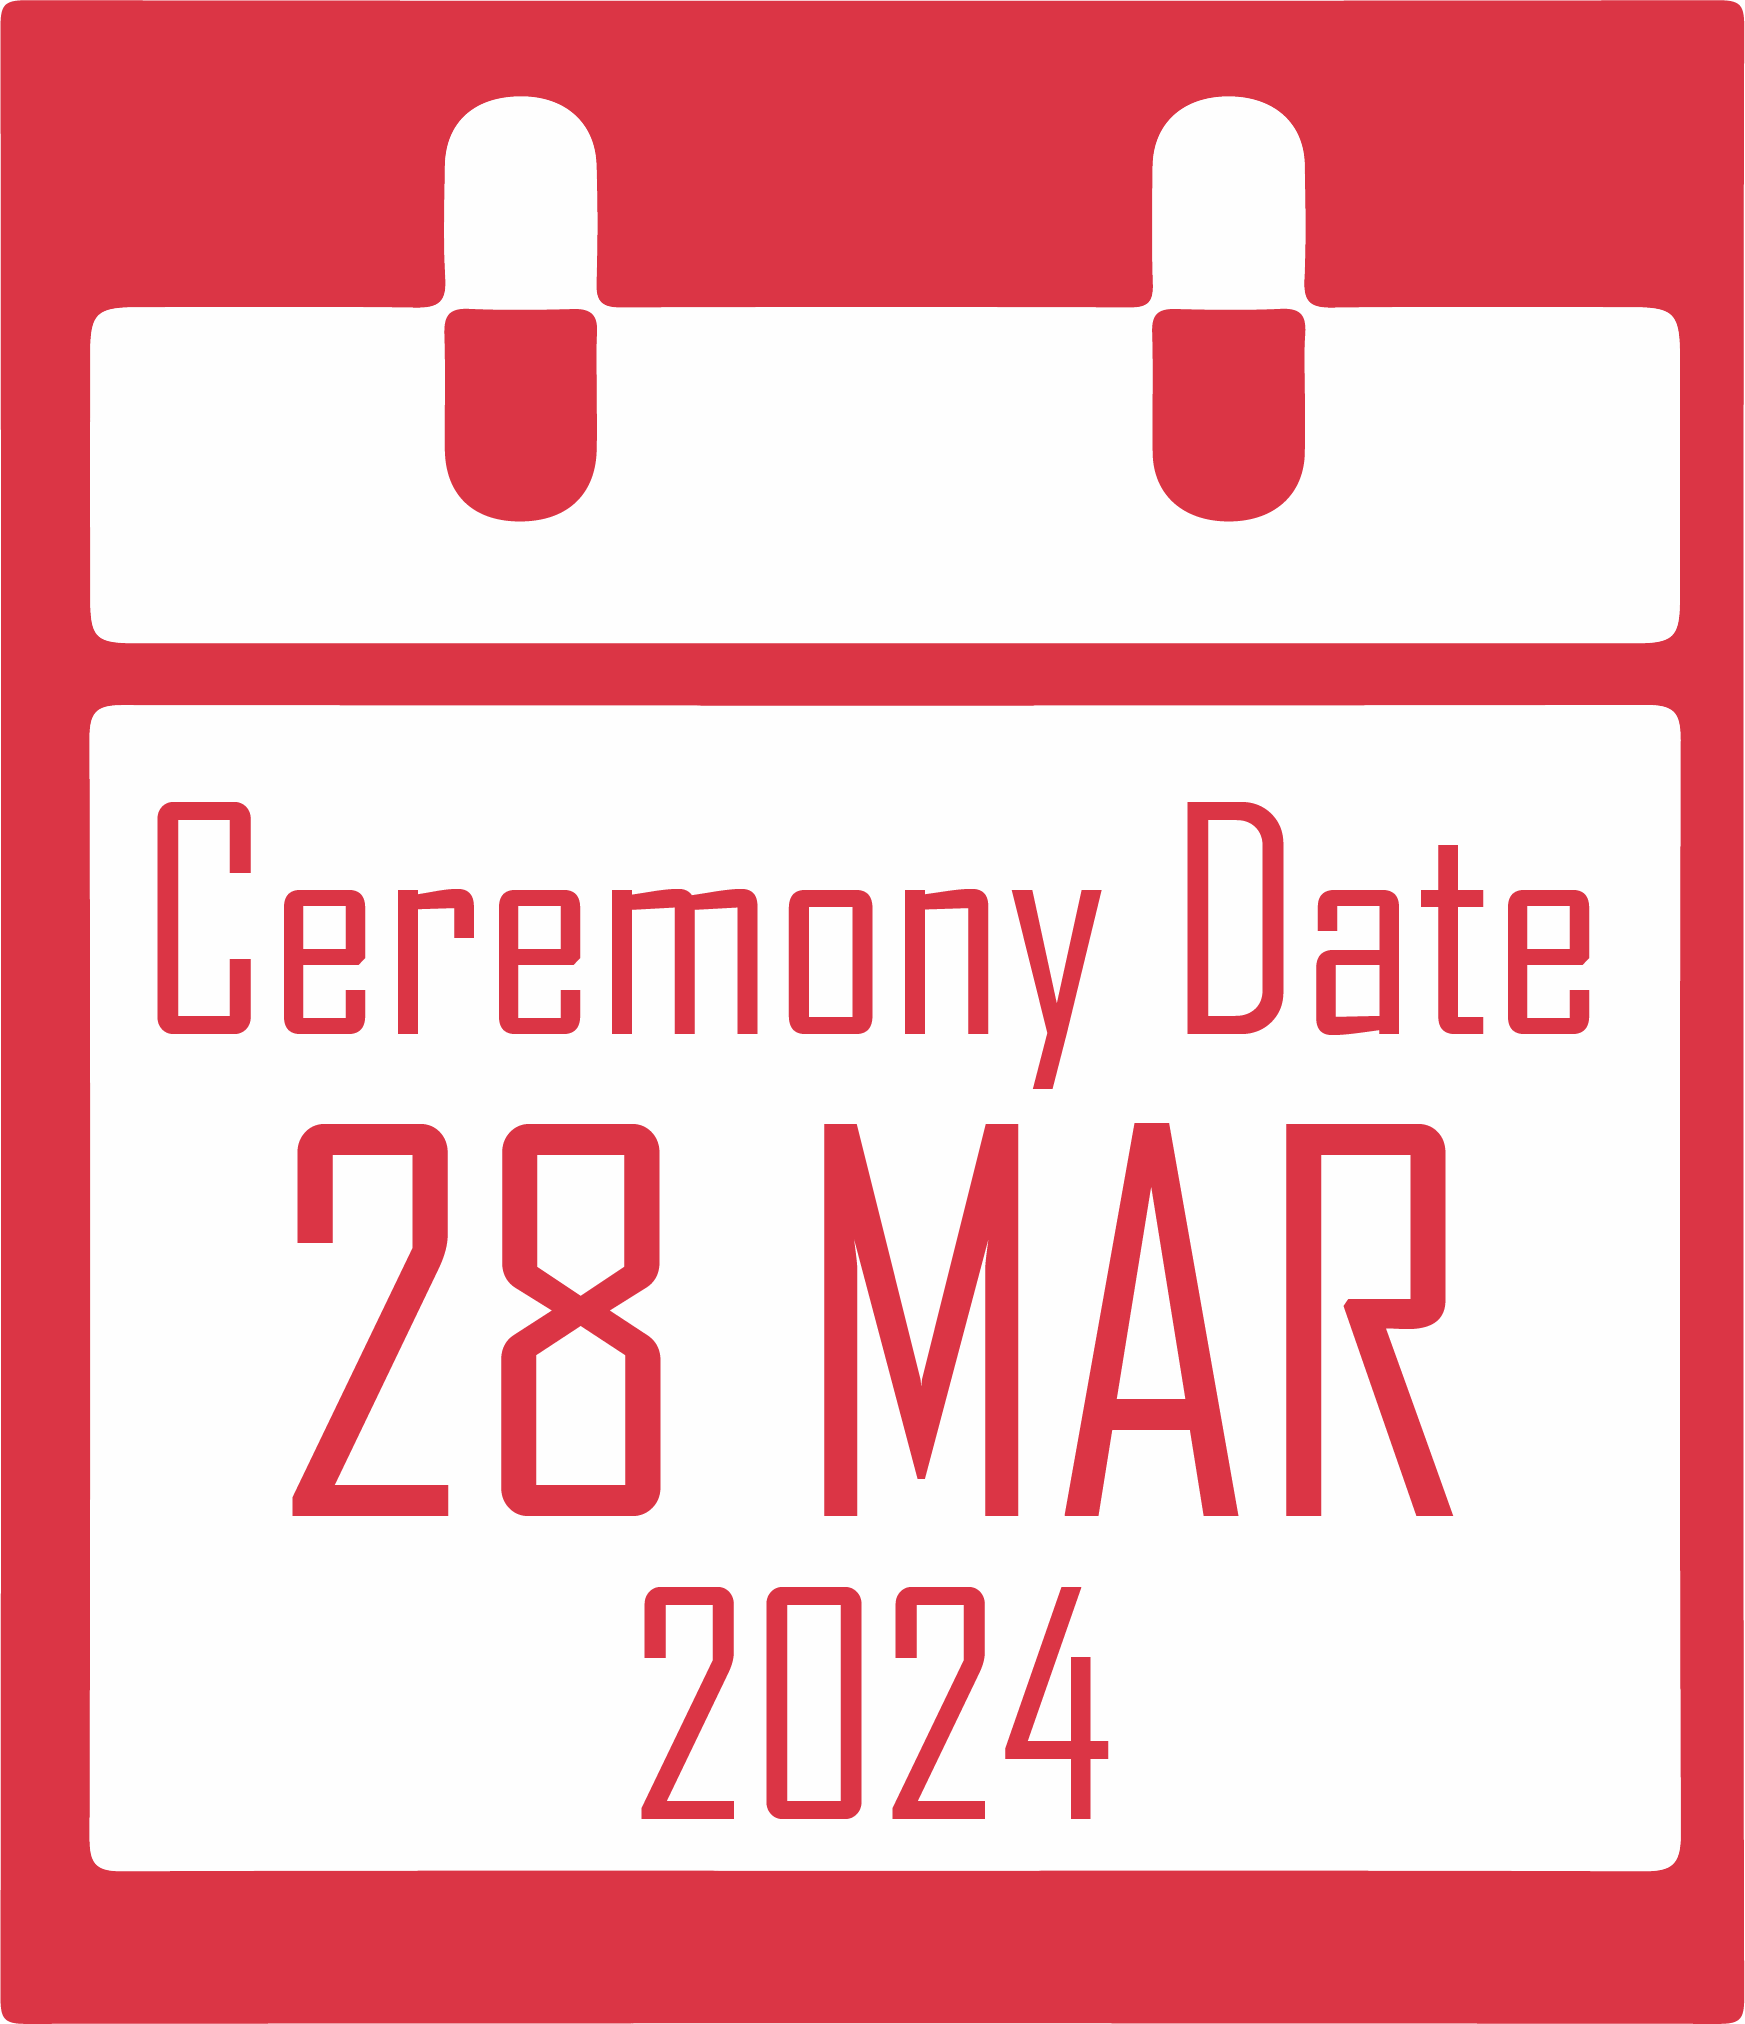
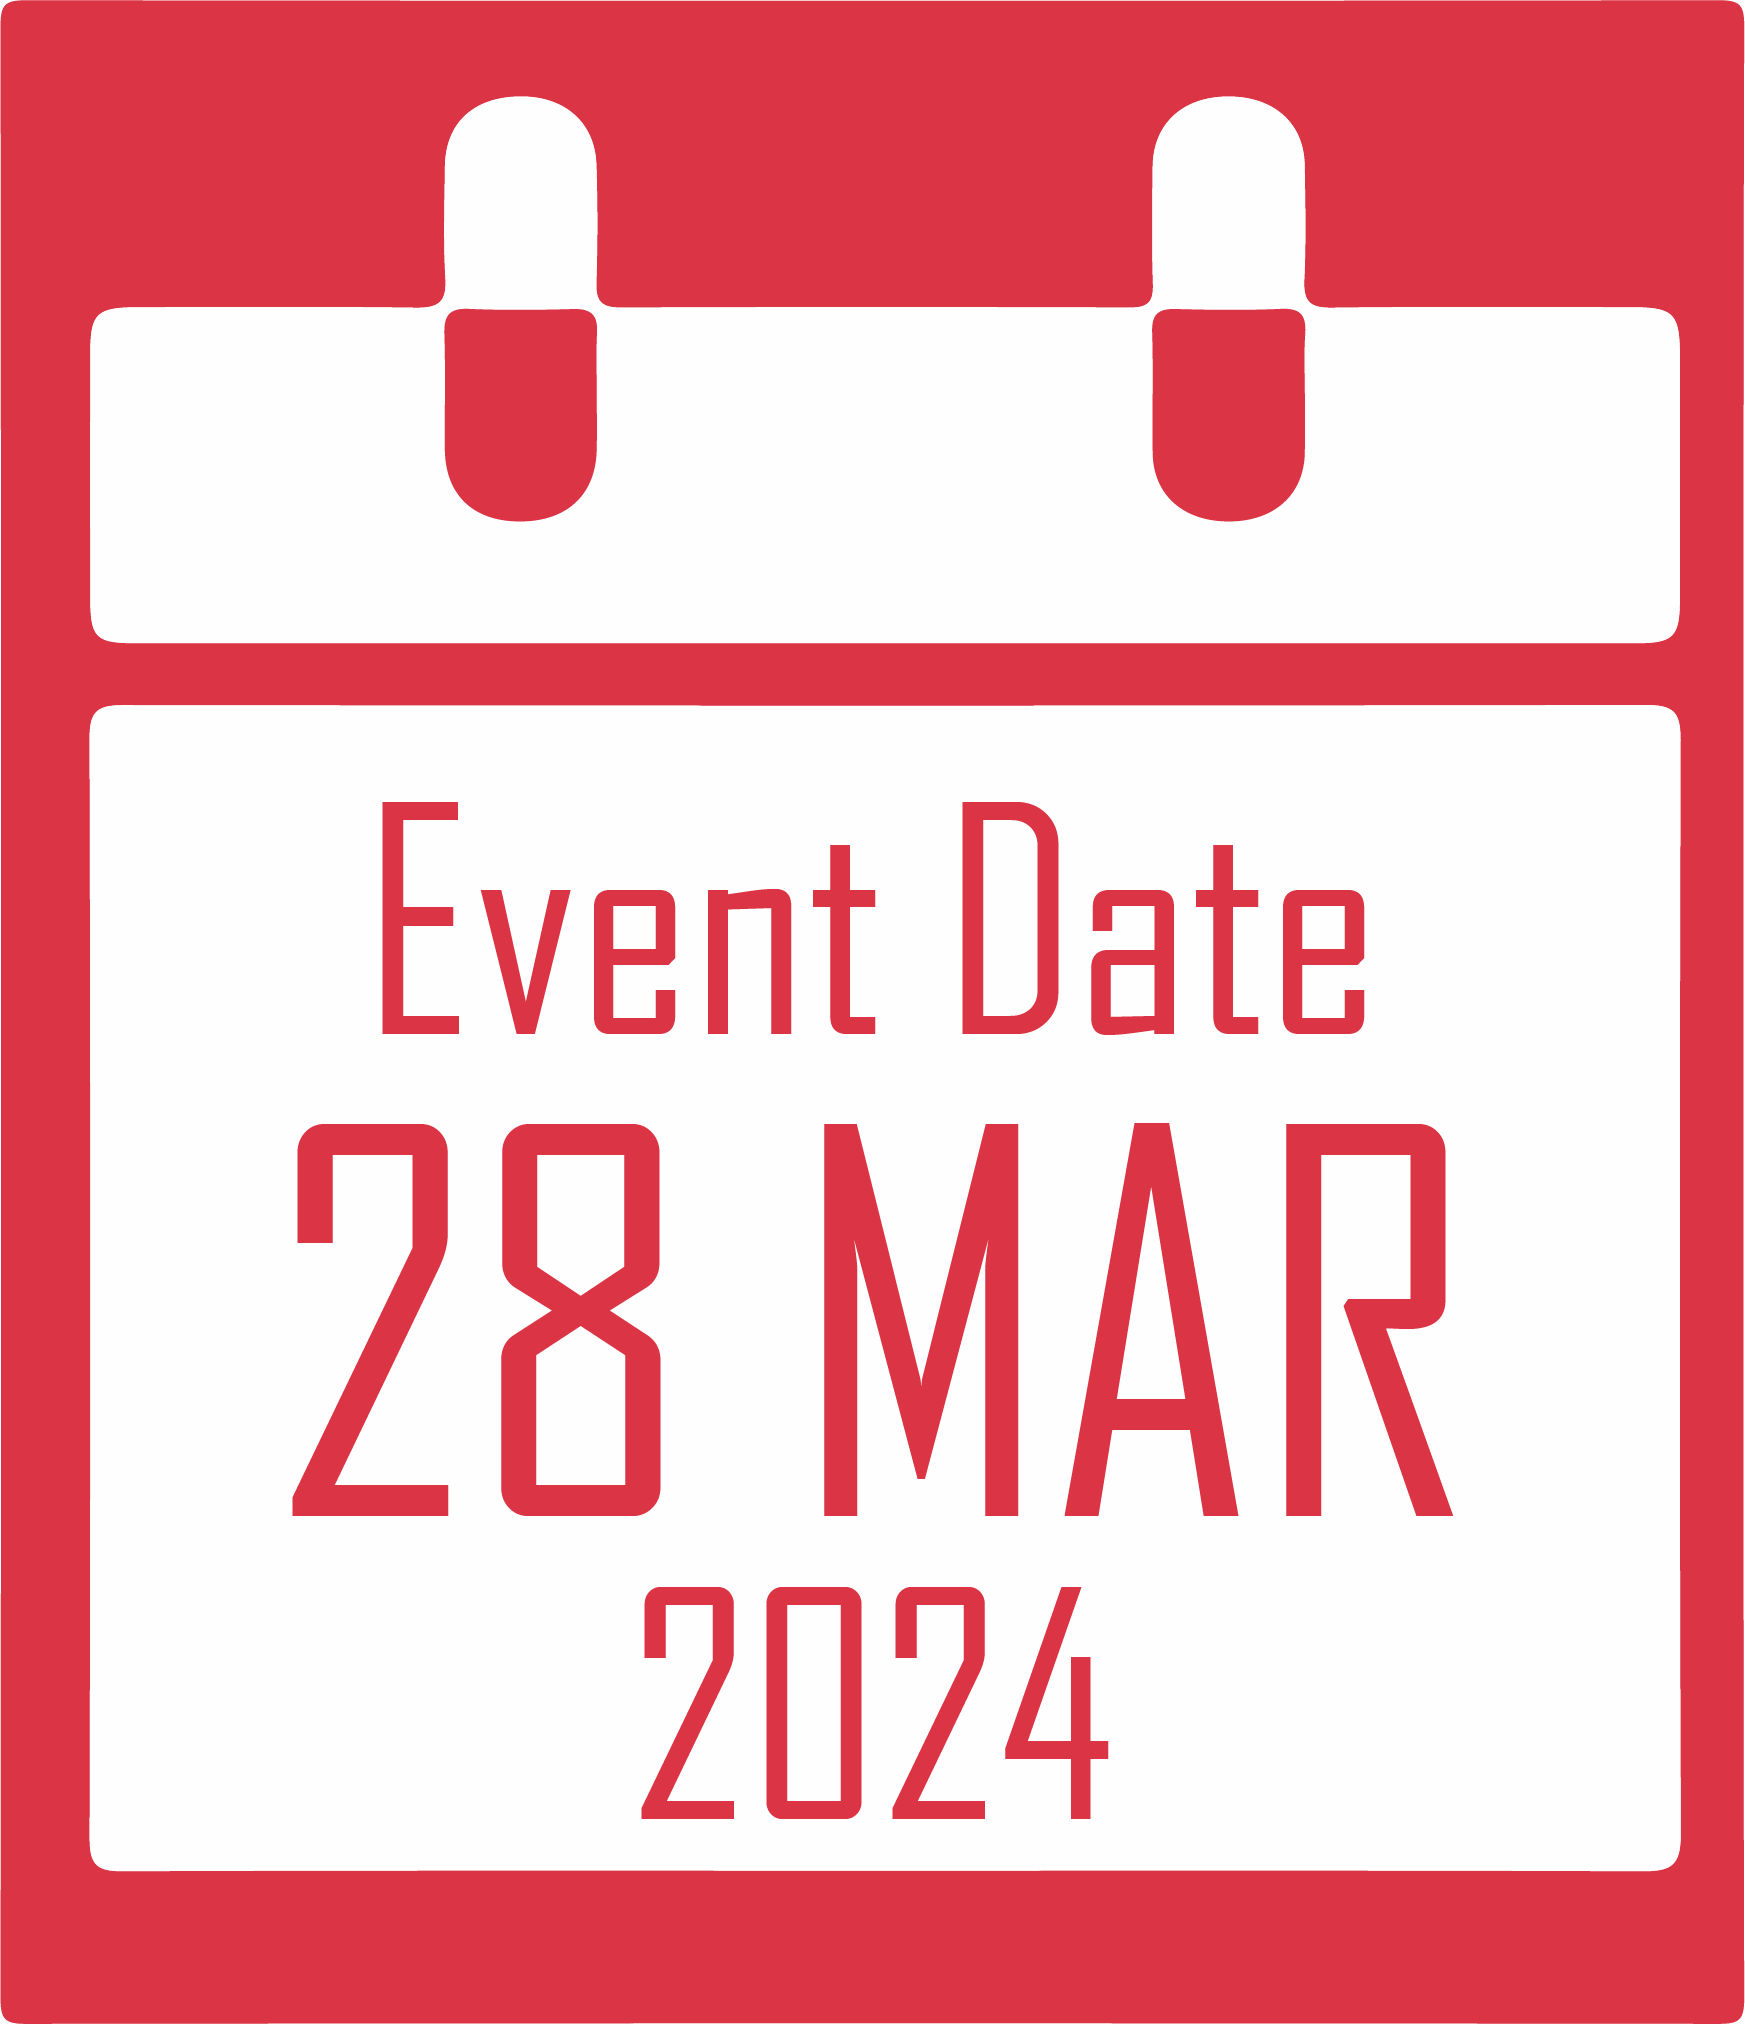
commit

Changed region(s): [[0.0928, 0.3735, 0.9284, 0.5603]]

diff --git a/src/Components/About/Others.js b/src/Components/About/Others.js
@@ -8,9 +8,7 @@ const Others = () => {
     <>
       
       <div className="container-fluid padding mb-3 d-flex justify-content-center" data-aos="fade-up" data-aos-offset="200" data-aos-delay="200" data-aos-duration="500">
-        <NavLink className='nav-link' to={'/register'}>
-          <Button variant='primary' className='text-light display-5' >Click Here To Register online</Button>
-        </NavLink>
+          <a target='_blank' href='https://forms.gle/J2J93uNeHmi6AZDo8'><Button variant='primary' className='text-light display-5' >Click Here To Register online</Button></a>
       </div>
       <div className="container-fluid padding mb-3" data-aos="fade-up" data-aos-offset="200" data-aos-delay="200" data-aos-duration="500">
         <HeadingComp head={'Award Category'} />

diff --git a/src/Components/About/Guidelines.js b/src/Components/About/Guidelines.js
@@ -69,7 +69,7 @@ const Guidelines = () => {
                             <li style={{
                             fontSize:"1.2rem",
                             marginBottom:0,
-                        }}>The winner of the Industry Excellence Award will be announced at a special ceremony organized by the Department of Industrial Engineering on 28th March,  2024.</li>
+                        }}>The winner of the Industry Excellence Award will be announced at a ceremony organized by the Department of Industrial Engineering on 28th March,  2024.</li>
                             <li  style={{
                             fontSize:"1.2rem",
                             marginBottom:0,
